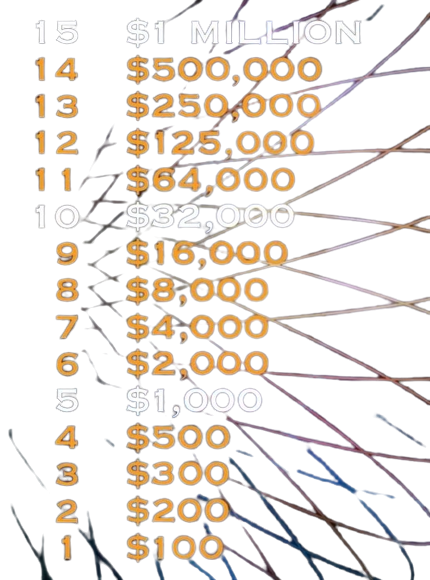
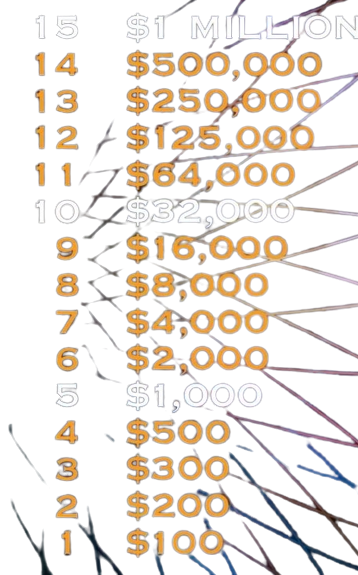
added css styling

diff --git a/index.html b/index.html
@@ -11,11 +11,11 @@
 <body>
 
    
-    <div>
+    <div class="image-div">
         <button onclick="fifty()" id="btn" class="ms-5 mt-5"><img src="./images/50-50.png" alt=""></button>
         <span><img src="./images/phone-a-friend.png" alt=""></span>
         <span><img src="./images/ask-the-audience.png" alt=""></span>
-        <p><img src="./images/money-removebg-preview.png" alt=""></p>
+        <p><img class="money-image" src="./images/money-removebg-preview.png" alt=""></p>
     </div>
 
     <div class="quiz-container">

diff --git a/style.css b/style.css
@@ -15,8 +15,11 @@ body{
     text-align: center; 
     padding: 20px; 
 }
-/* .money{
-    position: relative;
-    height: 100px;
-    left: 100px;
-} */
+.money-image{
+    height: 200px;
+    margin-left: 60px;
+}
+.image-div{
+    /* float: right; */
+   align-content: flex-end;
+}
